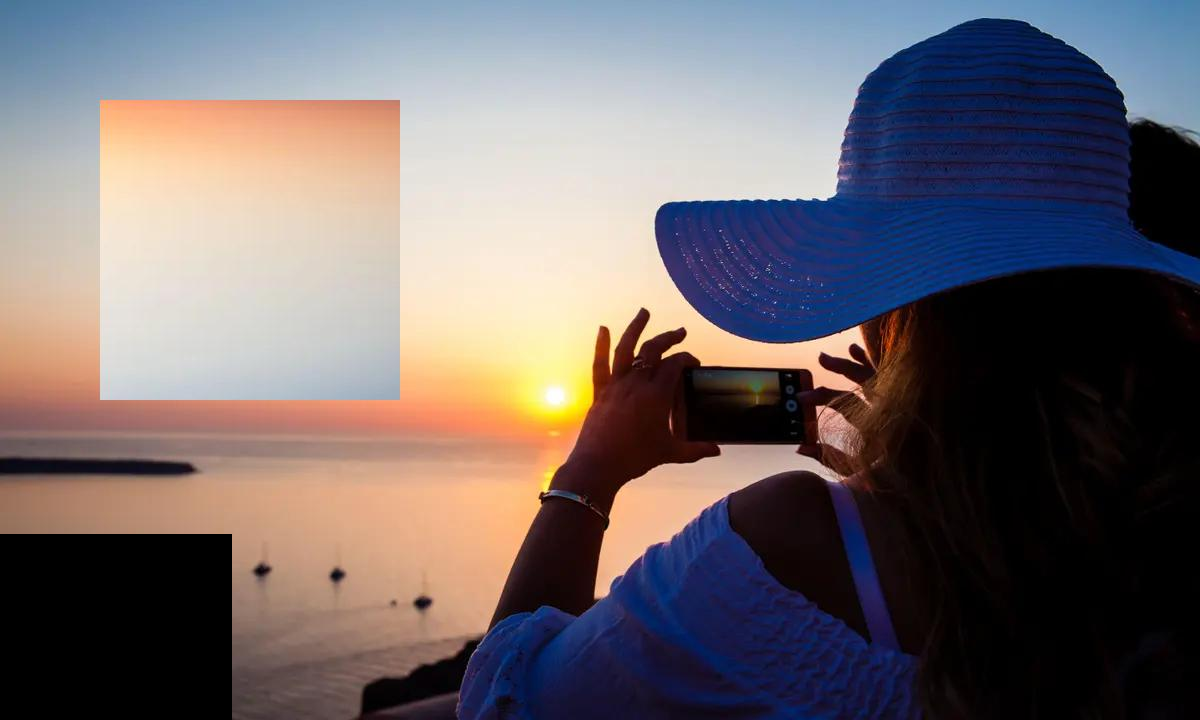
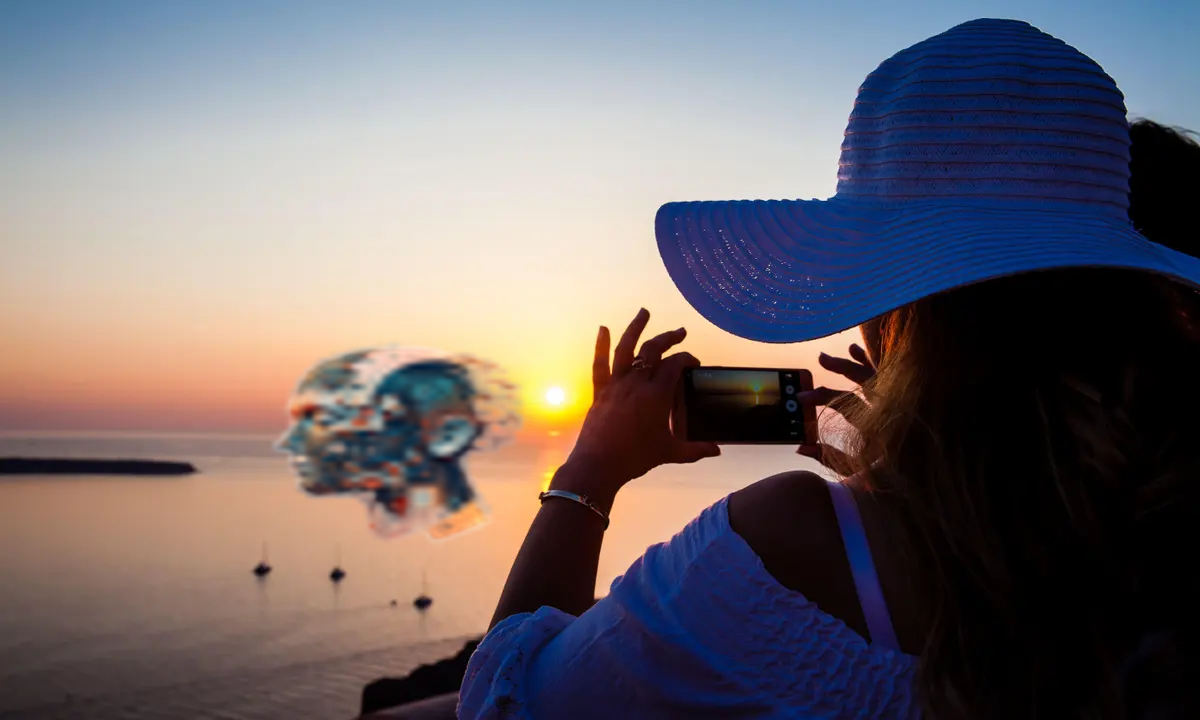
all elements on one html page with bugs

Changed region(s): [[0.0617, 0.1222, 0.4317, 0.7639], [0.0, 0.7333, 0.2158, 1.0]]

diff --git a/static/css/edit.css b/static/css/edit.css
@@ -1,87 +1,32 @@
-#image-container {
-    /* Ensures the container fits the image */
-    display: inline-block;
+.edit {
+    margin-top: 20px;
     position: relative;
-    overflow: hidden;
+    width: 100%;
+    height: auto;
 }
 
-#watermark {
-    /* Start with default positioning and adjust as needed */
-    position: absolute;
-    top: 0;
-    left: 0;
-    /* Adjust opacity as needed */
-    opacity: 0.5;
-    /* Cursor indicates element is movable */
-    cursor: move;
+#image-container {
+    background: #eaeaea;
+    border: 1px solid #ccc;
+    margin-top: 20px;
+    position: relative;
 }
-#image-container, #watermark {
-    box-sizing: border-box;
+
+.scale-handle {
+    background-color: blue;
+    border-radius: 50%;
 }
 
 #image-watermark {
-    /* This will make the scaling smoother */
-    transition: transform 0.1s ease-out;
+    transition: opacity 0.3s;
 }
-
 
 #text-watermark {
     position: absolute;
     margin: 0;
     padding: 0;
-    box-sizing: border-box;
-    cursor: move;
-    top: 10px;
-    right: 10px;
 }
 
-body{
-    display: flex;
-    flex-direction: column;
+#main-image{
+    width:inherit;
 }
-
-button { border: 2px solid gray; color: gray; background-color: white; padding: 8px 20px; border-radius: 8px; font-size: 20px; font-weight: bold;
-    width: 300px; }
-
-      
-
-#scaling-frame {
-position: absolute;
-top: 0;
-left: 0;
-right: 0;
-bottom: 0;
-border: 5px solid blue;
-}
-
-.scale-handle {
-position: absolute;
-width: 10px;
-height: 10px;
-background-color: blue;
-}
-
-#scale-top-left {
-top: -5px;
-left: -5px;
-cursor: nw-resize;
-}
-
-#scale-top-right {
-top: -5px;
-right: -5px;
-cursor: ne-resize;
-}
-
-#scale-bottom-left {
-bottom: -5px;
-left: -5px;
-cursor: sw-resize;
-}
-
-#scale-bottom-right {
-bottom: -5px;
-right: -5px;
-cursor: se-resize;
-}
-      

diff --git a/static/css/style.css b/static/css/style.css
@@ -1,9 +1,61 @@
-body { font-family: Arial, sans-serif; margin: 20px; padding: 20px; background-color: #f7f7f7; }
+/* body { font-family: Arial, sans-serif; margin: 20px; padding: 20px; background-color: #f7f7f7; }
 .container { background: white; padding: 20px; border-radius: 8px; box-shadow: 0 0 10px rgba(0,0,0,0.1); }
 h2 { color: #333; }
 .upload-btn-wrapper { position: relative; overflow: hidden; display: inline-block; }
 button { border: 2px solid gray; color: gray; background-color: white; padding: 8px 20px; border-radius: 8px; font-size: 20px; font-weight: bold; }
-input[type=file] { font-size: 100px; position: absolute; left: 0; top: 0; opacity: 0; }
+input[type=file] { font-size: 10px; position: absolute; left: 0; top: 0; opacity: 0; }
 
 .button{ border: 2px solid gray; color: gray; background-color: lightgreen; padding: 8px 20px; border-radius: 8px; font-size: 20px; font-weight: bold; text-decoration: none;}
+ */
 
+ body {
+    font-family: Arial, sans-serif;
+    background-color: #f4f4f4;
+    color: #333;
+    line-height: 1.6;
+}
+
+.wrapper {
+    max-width: 960px;
+    margin: 20px auto;
+    padding: 20px;
+    background: #fff;
+    border-radius: 5px;
+    box-shadow: 0 0 10px rgba(0, 0, 0, 0.1);
+}
+
+h2 {
+    color: #333;
+}
+
+.upload-btn-wrapper {
+    position: relative;
+    overflow: hidden;
+    display: inline-block;
+}
+
+.upload-btn-wrapper input[type=file] {
+    font-size: 100px;
+    position: absolute;
+    left: 0;
+    top: 0;
+    opacity: 0;
+}
+
+.button {
+    display: inline-block;
+    background-color: #007bff;
+    color: #ffffff;
+    padding: 10px 20px;
+    border: none;
+    border-radius: 5px;
+    cursor: pointer;
+}
+
+.button:hover {
+    background-color: #0056b3;
+}
+
+#pic-preview, #water-preview {
+    margin-top: 15px;
+}

diff --git a/templates/index.html b/templates/index.html
@@ -42,9 +42,9 @@
 </div>
 
     <div class="edit">
-        <div id="image-container" style="position: relative; width: fit-content;">
+        <div id="image-container" style="position: relative; width: 100%;">
             <img id="main-image" src="{{ url_for('static', filename='test_files/1.webp') }}" alt="Main Image">
-            <div id="image-watermark" style="position: absolute; top: 50%; left:50%; opacity: 1; width: 100px; height: 100px;">
+            <div id="image-watermark" style="position: absolute; top: 0; left:0; opacity: 1; width: 100px; height: 100px;">
                 <img id="image-watermark-inner" src="{{ url_for('static', filename='test_files/black.png') }}" style="width: 100%; height: 100%;" alt="Watermark">
             
                 <!-- <div id="scale-handle" style="position: absolute; bottom: 0; right: 0; width: 100%; height: 100%; background: transparent; cursor: nwse-resize; border-width: 50px; border-color: blue;"></div> -->
@@ -64,7 +64,7 @@
             </div>
             
             
-            <p id="text-watermark" style="color:green; font-size: 25px;">Hello it's me</p>
+            <p id="text-watermark" style="color:green; font-size: 25px;"></p>
     
         </div>
         <button id="get-position-btn" >Get Watermark Position</button>

diff --git a/server.py b/server.py
@@ -7,7 +7,7 @@ add_watermark = Watermark()
 app = Flask(__name__)
 
 app.config['SECRET_KEY'] = 'SECRET_KEY'
-f
+
 @app.route('/', methods=['GET', 'POST'])
 def upload_file():
     result = session.get('result', False)
@@ -22,8 +22,6 @@ def upload_file():
         position = (data['watermark_pos']["x"], data['watermark_pos']["y"])
         width = data["width_w"][:-2]
         height = data["height_w"][:-2]
-        print("hekoo")
-        print(height)
         
         
         
